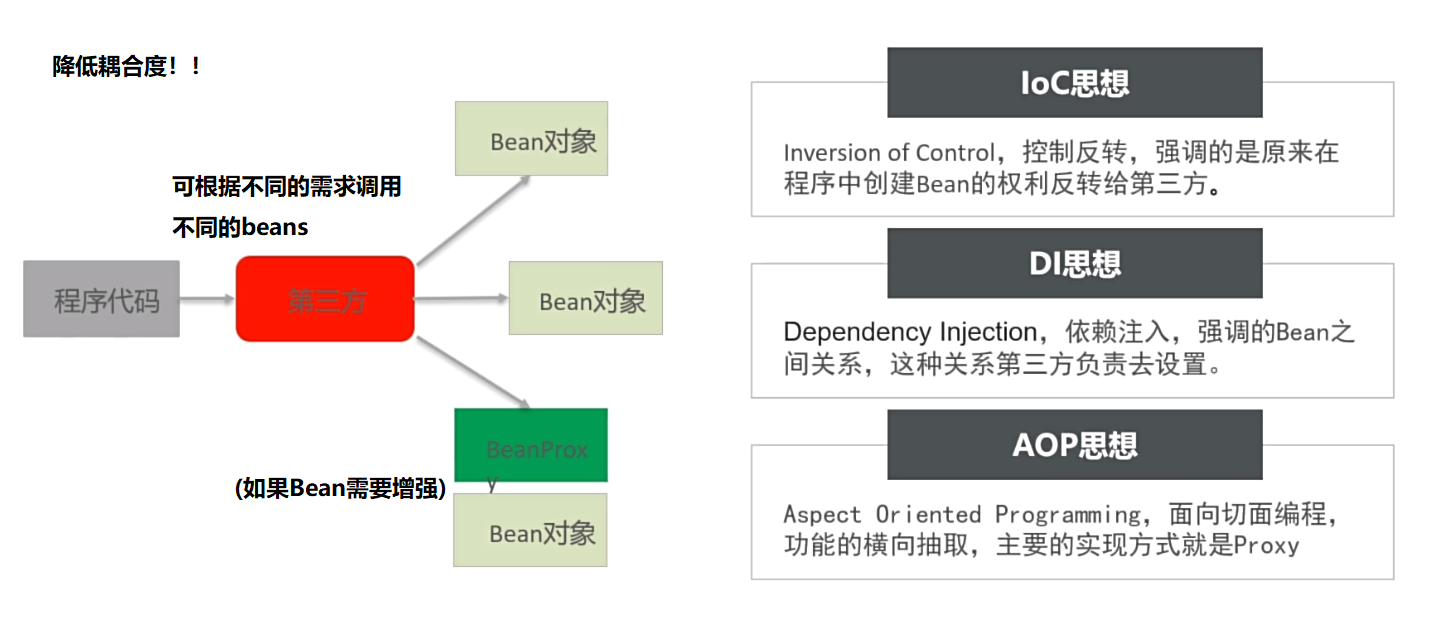
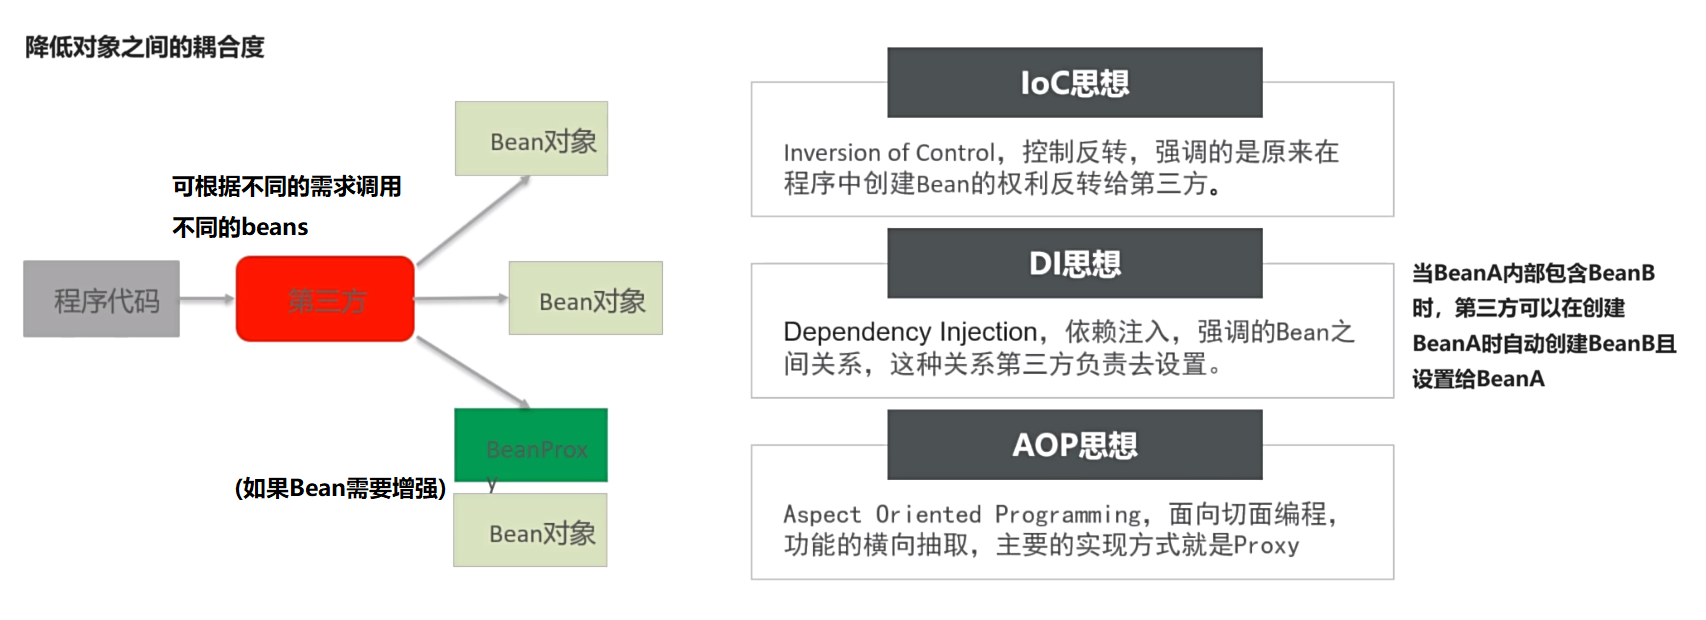
javaweb2

diff --git a/docs/Tricks/JavaWeb.md b/docs/Tricks/JavaWeb.md
@@ -4,7 +4,7 @@
 
 * [IntelliJ IDEA Ultimate](https://www.jetbrains.com/idea/download/other.html) 中通过 [Maven](https://maven.apache.org/) 管理包：.pom文件
     - 本地安装Maven后: IDEA中File--Settings--搜索maven--设置home/cfg/repo等信息
-    - 随后可以创建Maven项目，[尝试一下，公司会提供正版IDEA](https://www.idejihuo.com/)
+    - 随后可以创建Maven项目，[尝试一下IT码徒](https://www.itmatu.com/1529.html)，[公司会提供正版IDEA](https://www.idejihuo.com/)
 
 
 * Mysql 数据库运行后，可以用 Navicat 可视化管理其中的 table
@@ -34,8 +34,6 @@ SpringMVC   表现层       Controller+View 处理用户界面和交互逻辑
 
 * [Token、Cookie for Session](https://blog.csdn.net/weixin_52376041/article/details/134309318) 
 
-* 为什么要用 Bean？[IoC、DI、AOP 以降低耦合度](./JavaWeb/6.png)
-
 
 
 ## 教程导航
@@ -44,6 +42,7 @@ SpringMVC   表现层       Controller+View 处理用户界面和交互逻辑
     - 右键目录，选择生成class/servlet/..
     - 右键 或 Alt+Insert 自动生成类的 Getter/Setter 等代码
     - 右键--Project Structure--Facets--点击项目--点击标红目录进行自动创建
+    - 非java代码都放在resources文件夹中
 
 ### [黑马程序员JavaWeb基础教程](https://www.bilibili.com/video/BV1Qf4y1T7Hx/)
 
@@ -129,23 +128,67 @@ fis.close();
 
 ### [黑马Spring教程](https://www.bilibili.com/video/BV1rt4y1u7q5)
 
+* 为什么要用 [Bean](https://blog.csdn.net/yuxiangdeming/article/details/122876550)？[IoC、DI、AOP 以降低对象间耦合度](./JavaWeb/6.png)
+
+* 记得引入xml-header部分的xmlns、xsi，以及pom中相关依赖
+
+* 通过BeanFactory配置/创建/管理Beans，步骤
+    1. 简单创建一个Maven项目后，配置 [spring-context](https://central.sonatype.com/artifact/org.springframework/spring-context)
+    2. 创建 UserService 接口
+    3. UserServiceImpl 是 UserService 的实现类（可配置为Bean）
+    4. IDEA 右键目录 New 一个 XML Configuration File，[配置](./JavaWeb/7.png) ```<bean id="userService" class="xx.xx.impl.UserServiceImpl">...</bean>```
+    5. 如果某Bean中还需要引用另一个Bean，[例如](https://blog.csdn.net/weixin_42214698/article/details/122781230) ，
+        - 则```...```处增加： ```<property name="bean2" ref="bean2"></property>```
+        - 或```autowire="byName"```：实现类中设定```setBean2(Bean2 bean2)```方法，寻找容器中```name/id=bean2```者，自动注入
+        - 或```autowire="byType"```：寻找容器中类型为Bean2类型者，若有重复则会报错，e.g.当Bean2接口对应两个Impl实现类，配置成两个Bean
+    6. 如果是有参构造，例如```class XImpl```的构造方法```public XImpl(String argname){}```，则```...```处增加： ```<constructor-arg name="argname" value="123"></constructor-arg>```
+    7. 总结：ref="BeanXxx"， value=String/int/boolean， 如果需要注入的是ref/value的List，则 
+    ```
+    <property name="xxx">
+    <list>
+        <value>aaa</value> 
+        <value>bbb</value> 
+    </list>
+    </property>
+    ```
+
+```java
+// 创建工厂对象
+DefaultListableBeanFactory beanFactory = new DefaultListableBeanFactory();
+// 读取xml
+XmlBeanDefinitionReader reader = new XmlBeanDefinitionReader(beanFactory);
+reader.loadBeanDefinitions("beans.xml");
+// 根据id获取Bean实例对象 -- 首次调用getBean()时才将被调用的Beans实例化、初始化
+UserService userService = (UserService) beanFactory.getBean("serv1");
+```
+
+* ApplicationContext (Spring容器) 中封装了BeanFactory，并且扩展了功能API（监听、国际化等），[getBean方法](./JavaWeb/8.png)
+```java
+// 创建容器 -- 此时就将Beans实例化、初始化
+ApplicationContext applicationContext = new ClassPathXmlApplicationContext("beans.xml");
+UserService userService = (UserService) applicationContext.getBean("serv1");   // bean xml的优先顺序：(name1,name2)>id>class
+```
+
+* 设定test/dev环境
+    - 希望使用大标签```<beans profile="dev">....bean1234....</beans>```内的Beans
+    - 则main方法中 ```System.setProperty("spring.profiles.active","dev")```
 
 
+* 有时项目过大，可以吧Beans分开写进不同的xml中，然后```<import resource="classpath:aa.xml"></import>```至相关```<beans>```大标签中
 
+* 许多外部包提供非自定义的Beans，JDBC组件库Druid示例如下；[Mybatis-SqlSessionFactory](https://mybatis.net.cn/getting-started.html)同理，其InputStream可设置为静态BeanFactory
+```java
+// main函数中，Druid的正常用法
+DruidDataSource dataSource = new DruidDataSource();
+dataSource.setUrl("jdbc:mysql://xxx:port/xxx");
+dataSource.set....
 
-
-
-
-
-
-
-
-
-
-
-
-
-
+// <bean id="dataSource" class="com.alibaba.druid.pool.DruidDataSource">
+// dataSource.setXxx等改为在 <property> 标签中设置（如果是构造对象时就需要的参数，使用<constructor-arg>，例如返回Connection的DriveManager.getConnection方法）
+// xml中进行以上设置后，main改为：
+ApplicationContext applicationContext = new ClassPathXmlApplicationContext("beans.xml");
+Object dataSource = applicationContext.getBean("dataSource");
+```
 
 ### [黑马SpringBoot教程](https://www.bilibili.com/video/BV1rt4y1u7q5)
 
